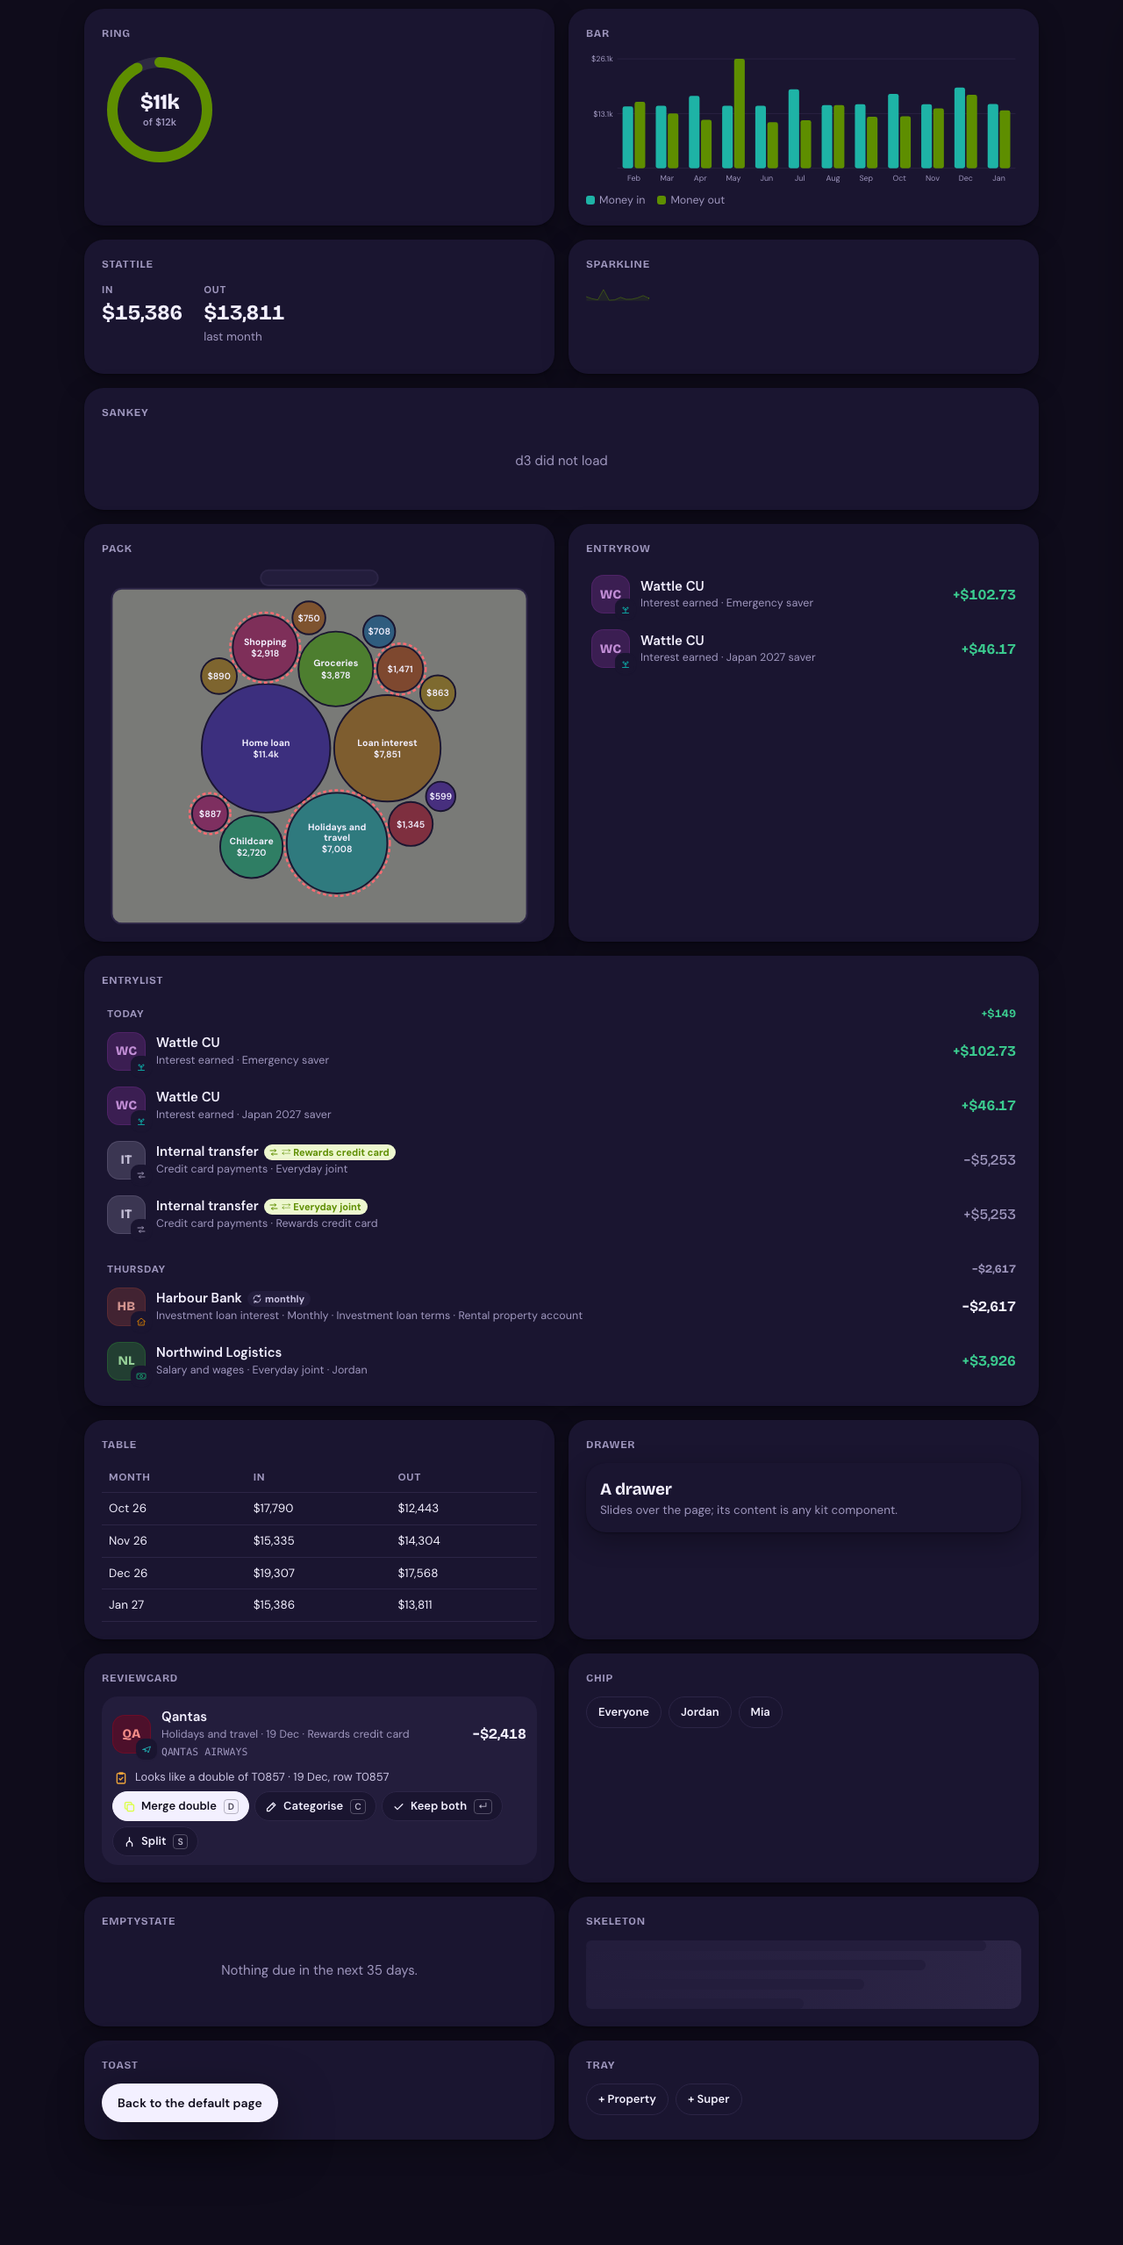
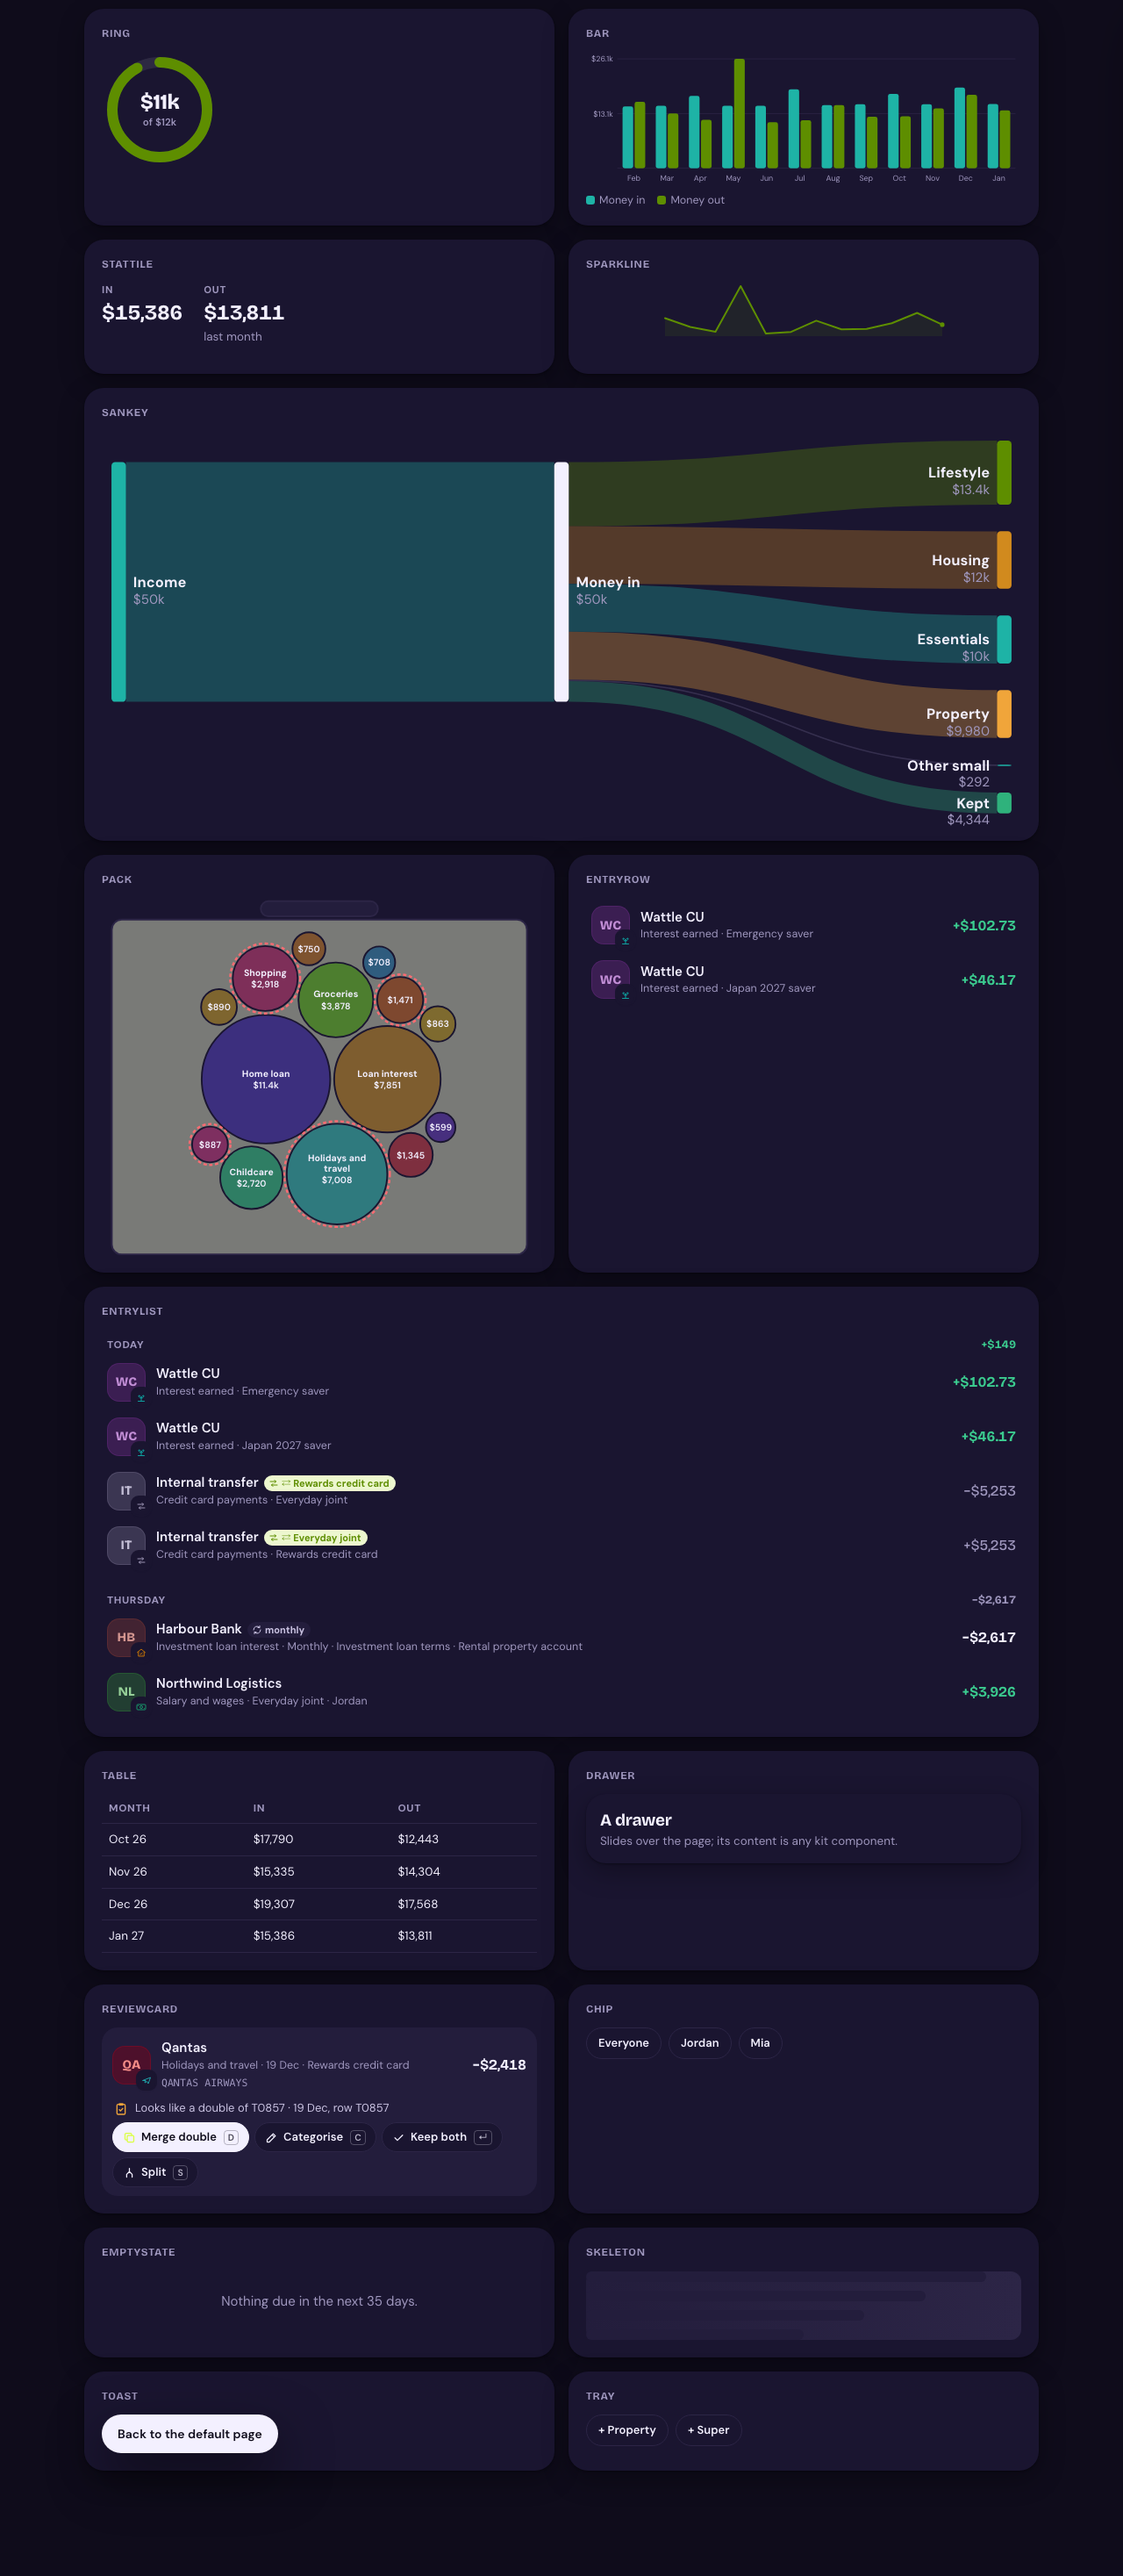
Kit gallery: draw the real Sankey and sparkline, and prove charts drew

Changed region(s): [[0.0625, 0.0, 0.9375, 0.9574]]

diff --git a/src/app.js b/src/app.js
@@ -334,15 +334,13 @@
     const m = S.m, v = $("#v-home"); const es = m.entries.filter((e) => e.kind === "transaction").slice(-6).reverse(); const sp = E.spend(m.tx, E.window("quarter", m.asOf));
     const months = m.cashflow.slice(-12).map((c) => ({ month: c.month, in: c.income, out: c.spending })); const item = review().items[0];
     const sect = (id, html, wide) => `<div class="card${wide ? " wide" : ""}" data-kit="${id}"><h3>${id}</h3>${html}</div>`;
-    let flow = ""; try { flow = flowSVG(sp, sp.in, CW(1)); } catch (e) { flow = Kit.EmptyState("d3 did not load"); }
-    let jar = ""; try { jar = jarSVG(sp, CW(1 / 2)); } catch (e) { jar = Kit.EmptyState("d3 did not load"); }
     v.innerHTML = `<div class="kitg">${[
       sect("Ring", ringSVG(0.92, "var(--accent)", "$11k", "of $12k")),
       sect("Bar", monthBarsSVG(months)),
       sect("StatTile", `<div class="statline">${Kit.StatTile("In", fmt0(months[11].in))}${Kit.StatTile("Out", fmt0(months[11].out), "last month")}</div>`),
       sect("Sparkline", sparkSVG(months.map((x) => x.out), 320, 60, "var(--accent)")),
-      sect("Sankey", flow, true),
-      sect("Pack", jar),
+      sect("Sankey", flowSVG(sp, [{ k: "Income", v: sp.in }], CW(1)), true),
+      sect("Pack", jarSVG(sp, CW(1 / 2))),
       sect("EntryRow", es.slice(0, 2).map((e) => Kit.EntryRow(e, ctx(), { category: true })).join("")),
       sect("EntryList", Kit.EntryList(es, ctx(), {}), true),
       sect("Table", `<div class="tablewrap"><table class="t"><thead><tr><th>Month</th><th>In</th><th>Out</th></tr></thead><tbody>${months.slice(-4).map((c) => `<tr><td>${esc(E.fmtMonth(c.month, true))}</td><td class="num">${fmt0(c.in)}</td><td class="num">${fmt0(c.out)}</td></tr>`).join("")}</tbody></table></div>`),

diff --git a/portals/test/kit.spec.js b/portals/test/kit.spec.js
@@ -9,6 +9,8 @@ for (const [size, viewport] of [["desktop", { width: 1280, height: 860 }], ["pho
     await page.setViewportSize(viewport); await page.emulateMedia({ reducedMotion: "reduce", colorScheme: theme });
     await page.goto(`${url}?noonb&noanim&theme=${theme}`); await page.waitForSelector("[data-kit=Tray]"); await page.evaluate(() => document.fonts.ready);
     for (const c of COMPONENTS) { const b = await page.locator(`[data-kit=${c}]`).boundingBox(); expect(b && b.height, c).toBeGreaterThan(50); const blank = await page.locator(`[data-kit=${c}]`).evaluate((e) => e.children.length < 2 || e.lastElementChild.getBoundingClientRect().height < 4); expect(blank, `${c} drew nothing`).toBe(false); }
+    for (const c of ["Ring", "Bar", "Sparkline", "Sankey", "Pack"]) { const h = await page.locator(`[data-kit=${c}] svg`).first().evaluate((e) => e.getBoundingClientRect().height); expect(h, `${c} is a real chart`).toBeGreaterThan(40); }
+    expect(await page.locator("[data-kit=Sankey] path").count(), "the Sankey has links").toBeGreaterThan(3);
     expect(await page.evaluate(() => document.documentElement.scrollWidth <= innerWidth), "no sideways scroll").toBe(true);
     expect(errors).toEqual([]);
     const shot = path.join(__dirname, "..", "..", "docs", "screenshots", "kit", `${size}-${theme}.png`);

diff --git a/src/style.css b/src/style.css
@@ -519,6 +519,7 @@ figure.diagram figcaption{font-size:13px;color:var(--muted);max-width:70ch}
 .kitg{display:grid;grid-template-columns:repeat(2,minmax(0,1fr));gap:16px}
 .kitg .card h3{font-size:12px;letter-spacing:.06em;text-transform:uppercase;color:var(--muted);margin:0 0 12px}
 .kitg .wide{grid-column:span 2}
+.kitg .spark{width:100%;height:60px}
 .kitg .static-drawer{position:static;box-shadow:var(--shadow);border-radius:var(--r);background:var(--surface);padding:16px;width:auto;transform:none}
 .kitg .static-toast{position:static;display:inline-block;transform:none;opacity:1}
 .wtotal{font-family:var(--display);font-size:26px;font-weight:700;letter-spacing:-.01em;margin-top:2px}
